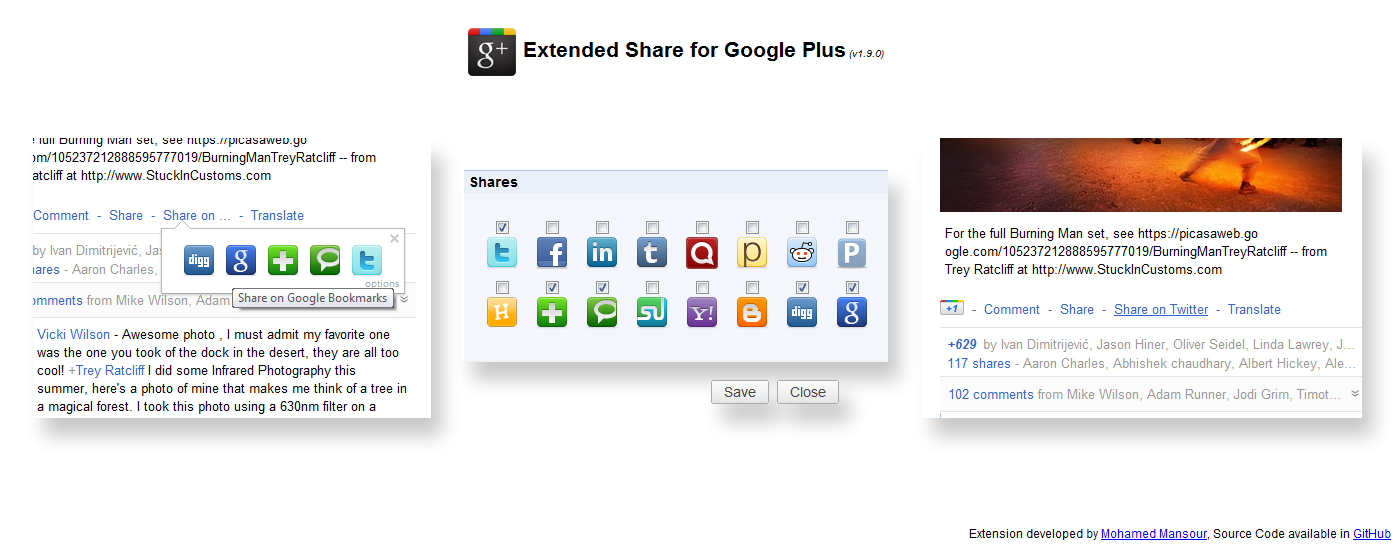
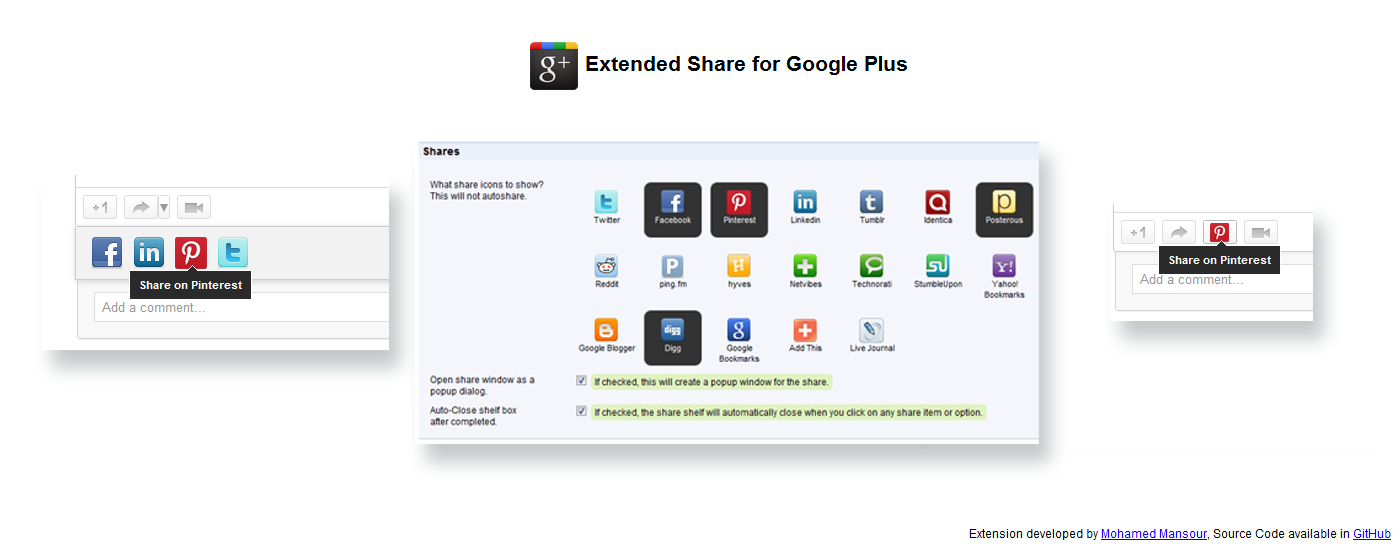
Use arrow as a share indicator

Changed region(s): [[0.0307, 0.2429, 0.9829, 0.85], [0.3071, 0.0304, 0.645, 0.1821]]

diff --git a/js/extended_injection.js b/js/extended_injection.js
@@ -74,6 +74,7 @@ Injection.prototype.prepareShareData = function(data) {
   var shareTop = null;
   var shareWidth = null;
   var shareZoom = null;
+  var shareMarginLeft = null;
   if (data.length === 1) {
     var shareItem = Shares[data[0]];
     shareName += shareItem.name;
@@ -82,14 +83,16 @@ Injection.prototype.prepareShareData = function(data) {
     shareHeight = '32px';
     shareWidth = '32px';
     shareZoom = 0.6;
+    shareMarginLeft = '7px';
   }
   else {
     shareName += '...';
     shareIcon = chrome.extension.getURL('/img/share.png');
-    shareTop = '0';
+    shareTop = '2px';
     shareHeight = '14px';
-    shareWidth = '22px';
+    shareWidth = '10px';
     shareZoom = 1;
+    shareMarginLeft = '0px';
   }
   return {
     name: shareName,
@@ -97,7 +100,8 @@ Injection.prototype.prepareShareData = function(data) {
     top: shareTop,
     height: shareHeight,
     width: shareWidth,
-    zoom: shareZoom
+    zoom: shareZoom,
+    marginLeft: shareMarginLeft
   }
 };
 
@@ -109,12 +113,14 @@ Injection.prototype.prepareShareData = function(data) {
  */
 Injection.prototype.decorateShare = function(shareNode, shareData) {
   shareNode.setAttribute('data-tooltip', shareData.name);
+  shareNode.style.marginLeft = shareData.marginLeft;
+  shareNode.style.width = shareData.width;
   var shareIcon = shareNode.childNodes[0];
   shareIcon.style.background = 'no-repeat url(' + shareData.icon + ')';
   shareIcon.style.top = shareData.top;
   shareIcon.style.height = shareData.height;
-  shareIcon.style.width = shareData.width;
   shareIcon.style.zoom = shareData.zoom;
+  shareIcon.style.width = shareData.width;
 };
 
 /**
